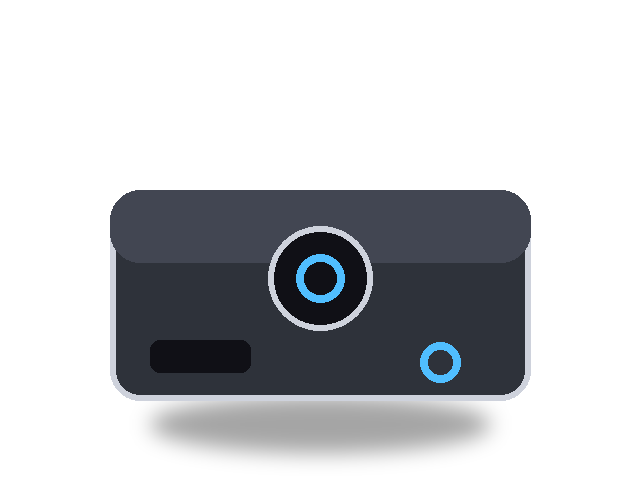
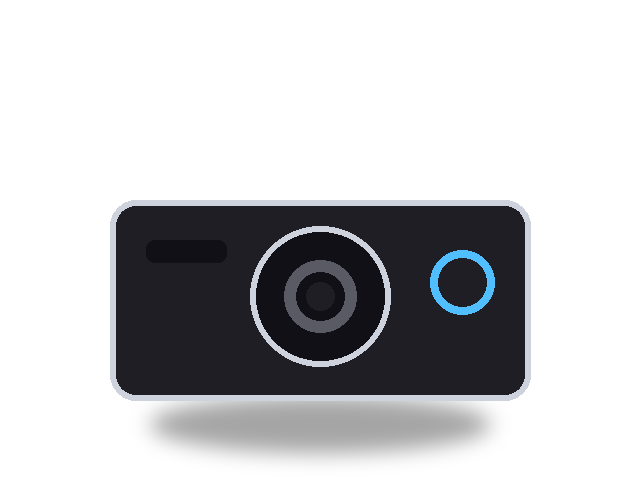
Console do emulador no quadro so com o sistema ativo (tem jogos); nova tela EMULADORES LIGA/DESLIGA no menu da engrenagem: circulo verde/vermelho, navega pelo joy pad, liga/desliga com clique (dedo, gamepad fisico ou virtual); emulador desligado deixa de ser varrido; consoles famosos com desenhos pr

diff --git a/android-project/app/src/main/java/com/edsonmfernando/advancemame/FrontendActivity.java b/android-project/app/src/main/java/com/edsonmfernando/advancemame/FrontendActivity.java
@@ -482,6 +482,7 @@ public class FrontendActivity extends Activity {
     private boolean systemsMode;
     private boolean systemGamesMode;
     private boolean showFavs;
+    private boolean emuListMode;
     private SystemEntry currentSystem;
     private TextView favToggle;
     private TextView sysToggle;
@@ -539,6 +540,14 @@ public class FrontendActivity extends Activity {
         list.setOnItemClickListener(new AdapterView.OnItemClickListener() {
             @Override
             public void onItemClick(AdapterView<?> parent, View view, int position, long id) {
+                if (emuListMode) {
+                    String k = adapter.romAt(position);
+                    setEmuEnabled(k, !emuEnabled(k));
+                    adapter.load(FrontendActivity.this);
+                    list.setSelection(position);
+                    updateCount(position);
+                    return;
+                }
                 if (systemsMode) {
                     openSystemAt(position);
                 } else if (systemGamesMode) {
@@ -1187,6 +1196,46 @@ public class FrontendActivity extends Activity {
         updateSnapshotVisibility();
     }
 
+    /** Tela com TODOS os emuladores: clique (dedo ou botao) liga/desliga. */
+    private void toggleEmuList() {
+        if (emuListMode) {
+            exitEmuList();
+            return;
+        }
+        emuListMode = true;
+        carousel.setVisibility(View.GONE);
+        list.setVisibility(View.VISIBLE);
+        adapter.load(this);
+        list.setSelection(0);
+        updateEmptyState();
+        updateCount(0);
+        showGameName(null);
+        updateSnapshotVisibility();
+        topSystem.setText("EMULADORES  \u2022  TOQUE PARA LIGAR/DESLIGAR");
+    }
+
+    private void exitEmuList() {
+        emuListMode = false;
+        computeMediaDirs();
+        adapter.load(this);
+        list.setSelection(0);
+        updateEmptyState();
+        if (systemsMode) {
+            list.setVisibility(View.GONE);
+            carousel.setGamesMode(false);
+            carousel.setVisibility(View.VISIBLE);
+            carousel.setSelectedIndex(0, true);
+        } else {
+            list.setVisibility(View.GONE);
+            carousel.setGamesMode(true);
+            carousel.setVisibility(View.VISIBLE);
+            carousel.setSelectedIndex(0, true);
+        }
+        topSystem.setText(systemsMode
+                ? "SISTEMAS  \u2022  EMULADORES" : "ARCADE  \u2022  ADVANCEMAME");
+        updateSnapshotVisibility();
+    }
+
     private void toggleFavs() {
         showFavs = !showFavs;
         favToggle.setAlpha(showFavs ? 1f : 0.45f);
@@ -1197,6 +1246,17 @@ public class FrontendActivity extends Activity {
         if (carousel != null && carousel.getVisibility() == View.VISIBLE) {
             carousel.setSelectedIndex(0, true);
         }
+    }
+
+    /** Emulador LIGADO por padrao; o usuario desliga na lista ON/OFF (economia). */
+    private boolean emuEnabled(String key) {
+        return getSharedPreferences("advmenu", MODE_PRIVATE)
+                .getBoolean("emu_on_" + key, true);
+    }
+
+    private void setEmuEnabled(String key, boolean on) {
+        getSharedPreferences("advmenu", MODE_PRIVATE).edit()
+                .putBoolean("emu_on_" + key, on).apply();
     }
 
     private boolean isFavorite(String rom) {
@@ -1281,6 +1341,7 @@ public class FrontendActivity extends Activity {
                         ? "LIGADO" : "DESLIGADO"));
         labels.add("MAPEAR GAMEPAD FISICO...");
         labels.add("SISTEMAS / EMULADORES");
+        labels.add("EMULADORES: LIGA / DESLIGA...");
         labels.add("FAVORITOS: " + (showFavs ? "LIGADO" : "DESLIGADO"));
         labels.add(hasPhysicalController()
                 ? "GAMEPAD FISICO: DETECTADO" : "GAMEPAD FISICO: NAO DETECTADO");
@@ -1297,8 +1358,10 @@ public class FrontendActivity extends Activity {
                 } else if (which == 3) {
                     toggleSystemsView();
                 } else if (which == 4) {
+                    toggleEmuList();
+                } else if (which == 5) {
                     toggleFavs();
-                } else if (which == 6) {
+                } else if (which == 7) {
                     reloadGames();
                 }
             }
@@ -1307,6 +1370,10 @@ public class FrontendActivity extends Activity {
 
     @Override
     public void onBackPressed() {
+        if (emuListMode) {
+            exitEmuList();
+            return;
+        }
         if (systemGamesMode) {
             backToSystems();
             return;
@@ -1507,7 +1574,8 @@ public class FrontendActivity extends Activity {
         if (systemGamesMode && currentSystem != null) {
             bgKey = currentSystem.key;
         } else if (systemsMode && carousel != null
-                && carousel.selected < systems.size()) {
+                && carousel.selected < systems.size()
+                && !systems.get(carousel.selected).games.isEmpty()) {
             bgKey = systems.get(carousel.selected).key;
         }
         if (bgKey != null && themeDir != null && themeDir.isDirectory()) {
@@ -2001,6 +2069,9 @@ public class FrontendActivity extends Activity {
                 if (label == null) {
                     continue;
                 }
+                if (!emuEnabled(n)) {
+                    continue;
+                }
                 if (PINBALL_SCAN_KEYS.contains(n)) {
                     label = "PINBALL (tudo)";
                 }
@@ -2387,7 +2458,8 @@ public class FrontendActivity extends Activity {
         }
         boolean vis = systemsMode && carousel != null
                 && carousel.getVisibility() == View.VISIBLE
-                && carousel.selected < systems.size();
+                && carousel.selected < systems.size()
+                && !systems.get(carousel.selected).games.isEmpty();
         if (!vis) {
             consoleView.setVisibility(View.GONE);
             return;
@@ -2831,6 +2903,14 @@ public class FrontendActivity extends Activity {
             roms.clear();
             titles.clear();
             files.clear();
+            if (act.emuListMode) {
+                for (java.util.Map.Entry<String, String> en
+                        : act.SYSTEM_FOLDERS.entrySet()) {
+                    roms.add(en.getKey());
+                    titles.add(en.getValue());
+                }
+                return;
+            }
             if (act.systemsMode) {
                 for (SystemEntry e : act.systems) {
                     roms.add(e.key);
@@ -2939,7 +3019,21 @@ public class FrontendActivity extends Activity {
             int pad = dp(sel ? 6 : 2);
             row.setPadding(dp(16), pad, dp(16), pad);
 
-            Bitmap cover = thumb(roms.get(position), dp(48));
+            if (emuListMode) {
+                TextView dot = new TextView(FrontendActivity.this);
+                dot.setText("\u25CF");
+                dot.setTextSize(28);
+                dot.setTextColor(emuEnabled(roms.get(position))
+                        ? 0xFF35D06A : 0xFFE04848);
+                dot.setShadowLayer(dp(2), 0, dp(1), Color.BLACK);
+                LinearLayout.LayoutParams dlp = new LinearLayout.LayoutParams(
+                        ViewGroup.LayoutParams.WRAP_CONTENT,
+                        ViewGroup.LayoutParams.WRAP_CONTENT);
+                dlp.rightMargin = dp(12);
+                row.addView(dot, dlp);
+            }
+
+            Bitmap cover = emuListMode ? null : thumb(roms.get(position), dp(48));
             if (cover != null) {
                 ImageView img = new ImageView(FrontendActivity.this);
                 img.setImageBitmap(cover);

diff --git a/android-project/tools/gen_consoles.py b/android-project/tools/gen_consoles.py
@@ -183,6 +183,59 @@ def lightgun(d, accent):
     d.ellipse([500, 320, 540, 360], fill=(80, 190, 255))
 
 
+def atari2600(d, accent):
+    rr(d, [140, 200, 420, 380], 16, (28, 28, 32), SILVER, 6)
+    rr(d, [150, 214, 410, 250], 8, (122, 82, 44))
+    rr(d, [150, 258, 410, 294], 8, (122, 82, 44))
+    rr(d, [180, 150, 380, 210], 10, DARK, SILVER, 5)
+    rr(d, [204, 104, 356, 160], 8, (50, 50, 58), SILVER, 4)
+    d.ellipse([352, 316, 388, 352], outline=accent + (255,), width=6)
+    # joystick ao lado
+    rr(d, [452, 290, 552, 380], 12, (28, 28, 32), SILVER, 5)
+    d.rectangle([486, 180, 518, 296], fill=(28, 28, 32), outline=SILVER, width=4)
+    d.ellipse([476, 152, 528, 204], fill=accent + (255,))
+    d.ellipse([470, 320, 500, 350], fill=(220, 60, 50))
+
+
+def box_console(d, accent, topCol, bodyCol, btnCol):
+    rr(d, [110, 180, 530, 250], 20, topCol, SILVER, 5)
+    rr(d, [110, 240, 530, 400], 20, bodyCol, SILVER, 6)
+    rr(d, [200, 204, 440, 234], 8, DARK)
+    d.ellipse([170, 300, 218, 348], fill=btnCol, outline=DARK, width=3)
+    d.ellipse([236, 300, 284, 348], fill=btnCol, outline=DARK, width=3)
+    rr(d, [330, 306, 470, 342], 8, DARK, SILVER, 4)
+    d.ellipse([492, 296, 516, 320], outline=accent + (255,), width=7)
+
+
+def cd_box(d, accent, bodyCol, ringCol):
+    rr(d, [110, 200, 530, 400], 26, bodyCol, SILVER, 6)
+    d.ellipse([250, 226, 390, 366], fill=DARK, outline=SILVER, width=6)
+    d.ellipse([284, 260, 356, 332], outline=ringCol, width=12)
+    d.ellipse([306, 282, 334, 310], fill=bodyCol)
+    rr(d, [146, 240, 226, 262], 8, DARK)
+    d.ellipse([430, 250, 494, 314], outline=accent + (255,), width=8)
+
+
+def cube_console(d, accent):
+    rr(d, [210, 120, 430, 380], 46, (86, 70, 160), SILVER, 6)
+    d.ellipse([262, 150, 378, 240], fill=DARK, outline=SILVER, width=6)
+    d.ellipse([290, 174, 350, 216], outline=accent + (255,), width=8)
+    rr(d, [250, 268, 390, 300], 10, DARK, SILVER, 4)
+    d.ellipse([368, 320, 404, 356], outline=accent + (255,), width=7)
+    rr(d, [252, 84, 388, 128], 20, (86, 70, 160), SILVER, 5)
+
+
+def tablet_console(d, accent):
+    rr(d, [150, 110, 490, 370], 30, DARK, SILVER, 6)
+    rr(d, [128, 140, 156, 340], 12, (220, 60, 60), SILVER, 4)
+    rr(d, [484, 140, 512, 340], 12, (60, 110, 230), SILVER, 4)
+    rr(d, [176, 132, 464, 348], 14, (14, 16, 24))
+    d.ellipse([286, 200, 354, 268], outline=accent + (255,), width=9)
+    dpad(d, 216, 234, 22, SILVER)
+    d.ellipse([424, 222, 452, 250], fill=accent + (255,))
+    d.ellipse([430, 256, 458, 284], fill=(230, 80, 80))
+
+
 DRAWERS = {
     "cartridge": cartridge,
     "handheld": handheld,
@@ -196,6 +249,29 @@ DRAWERS = {
     "gamepad": gamepad,
     "wheel": wheel,
     "lightgun": lightgun,
+    "atari2600": atari2600,
+    "cube": cube_console,
+    "tablet": tablet_console,
+}
+
+# consoles famosos: desenhos proprios mais reconheciveis (arte original)
+SPECIAL = {
+    "atari2600": lambda d, a: atari2600(d, a),
+    "a2600": lambda d, a: atari2600(d, a),
+    "nes": lambda d, a: box_console(d, a, (214, 208, 190), (150, 150, 158), (210, 60, 50)),
+    "famicom": lambda d, a: box_console(d, a, (230, 220, 210), (180, 60, 50), (240, 200, 80)),
+    "snes": lambda d, a: box_console(d, a, (208, 206, 212), (150, 148, 160), (120, 90, 200)),
+    "sfc": lambda d, a: box_console(d, a, (208, 206, 212), (150, 148, 160), (120, 90, 200)),
+    "megadrive": lambda d, a: box_console(d, a, (40, 40, 46), (24, 24, 30), (210, 50, 50)),
+    "genesis": lambda d, a: box_console(d, a, (40, 40, 46), (24, 24, 30), (210, 50, 50)),
+    "psx": lambda d, a: cd_box(d, a, (168, 168, 176), (140, 140, 150)),
+    "ps1": lambda d, a: cd_box(d, a, (168, 168, 176), (140, 140, 150)),
+    "saturn": lambda d, a: cd_box(d, a, (30, 30, 36), (90, 90, 100)),
+    "dreamcast": lambda d, a: cd_box(d, a, (238, 238, 240), (240, 130, 40)),
+    "gamecube": cube_console,
+    "switch": tablet_console,
+    "switch2": tablet_console,
+    "nsw": tablet_console,
 }
 
 FAM_ARCH = dict(ARCH)
@@ -211,7 +287,6 @@ def main():
     for k in keys:
         fam = fam_for(k)
         accent = FAMS[fam][2]
-        arch = FAM_ARCH.get(fam, "cartridge")
         img = Image.new("RGBA", (CW, CH), (0, 0, 0, 0))
         d = ImageDraw.Draw(img)
         # sombra suave no chao
@@ -219,7 +294,10 @@ def main():
         img = img.filter(__import__("PIL.ImageFilter", fromlist=["GaussianBlur"])
                          .GaussianBlur(10))
         d = ImageDraw.Draw(img)
-        DRAWERS[arch](d, accent)
+        if k in SPECIAL:
+            SPECIAL[k](d, accent)
+        else:
+            DRAWERS[FAM_ARCH.get(fam, "cartridge")](d, accent)
         img.save(os.path.join(OUT, "console_%s.png" % k), "PNG", optimize=True)
         n += 1
     print("consoles gerados:", n)

diff --git a/README.md b/README.md
@@ -117,8 +117,22 @@ nada, e são ativos já na primeira abertura — não precisa permissão de cart
   mascote e silhueta de console/portatil/CD/gabinete/pinball; o HBMAME usa o dragao em fogo do
   usuario). Na tela so aparece o **nome do emulador** no topo e o **nome do jogo + snapshot**
   (video AVI/MP4 ou imagem JPG) na lista — sem fabricante, ano ou genero.
-  Para regenerar a arte: `python3 android-project/tools/gen_themes.py` (fundos)
-  e `python3 android-project/tools/gen_logos.py` (bolinhas do carrossel).
+  Para regenerar a arte: `python3 android-project/tools/gen_themes.py` (fundos),
+  `python3 android-project/tools/gen_logos.py` (bolinhas) e
+  `python3 android-project/tools/gen_consoles.py` (consoles).
+- **UI dinamica (padrao final)**: no menu de SISTEMAS a navegacao e um carrossel de
+  bolinhas metalicas com o **nome do emulador dentro**, e no lugar do antigo quadro
+  aparece a **imagem do console do emulador selecionado** (`art/console_<sistema>.png`,
+  interpretacao original estilizada por familia/console) junto com os bonequinhos das
+  laterais; os fundos e o console so mudam quando muda o emulador. No menu de JOGOS as
+  bolinhas mostram o **nome do jogo** e o quadro central do tema mostra a **snapshot**
+  (video ou imagem) do jogo parado na bolinha, com o nome no rodape do quadro. Tela de
+  jogos/systemas so aparece para emulador ativo (ligado e com jogos).
+- **EMULADORES: LIGA / DESLIGA** (menu da engrenagem): lista com todos os sistemas;
+  navega pelo joy pad (cima/baixo) e liga/desliga com clique no dedo, botao do gamepad
+  fisico ou botao CENTER do controle virtual. Circulo **verde** = ligado, **vermelho** =
+  desligado. Emulador desligado deixa de ser varrido e nao aparece no carrossel
+  (economia de memoria e bateria do aparelho).
 
 ### Navegacao estilo multijogos (SISTEMAS + FAVORITOS)
 
